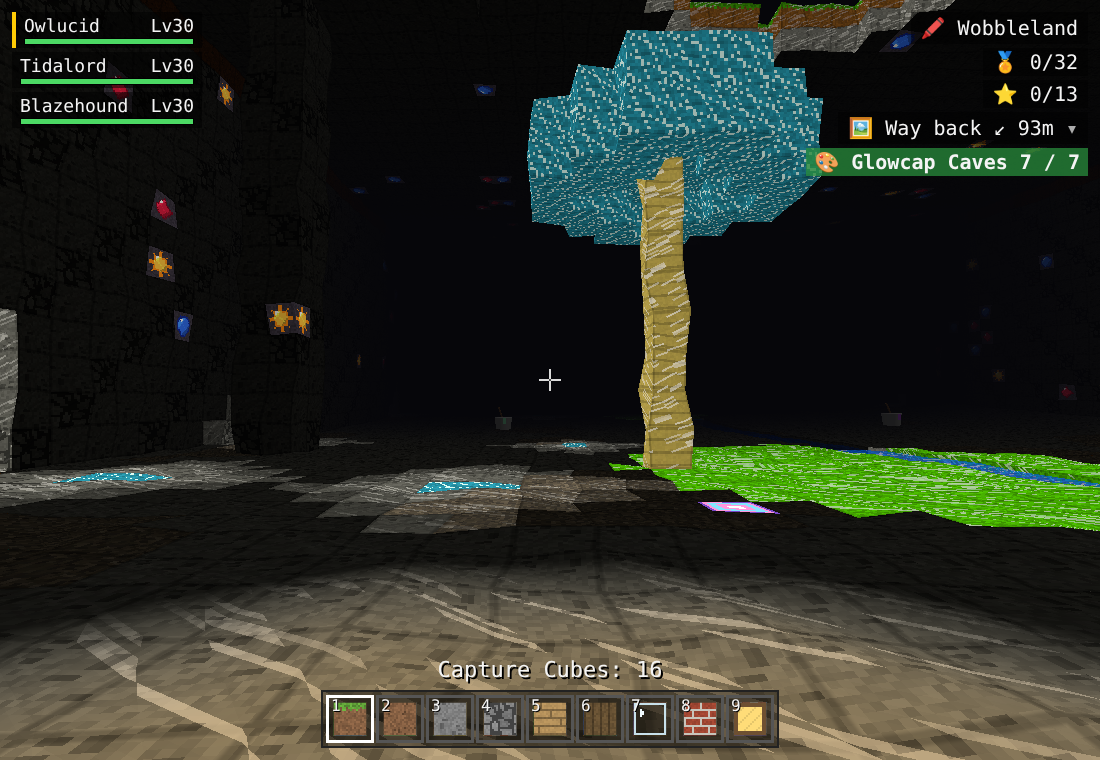
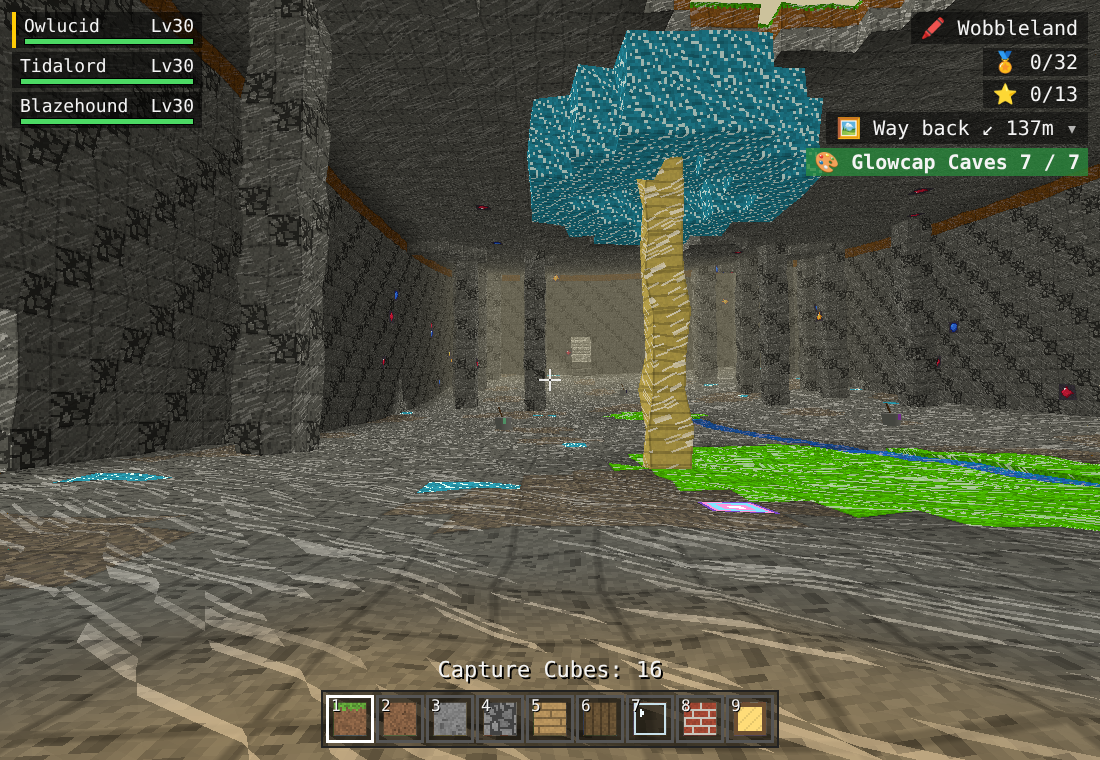
Glowcap Caves after the owner's look: fewer gems, Ghost and Ninja sense every warning in the dark, cleared parts have their own light
Claude-Session: https://claude.ai/code/session_01Xr3DsRns6bqDu4GhfcCfuU

diff --git a/src/wobbleland.js b/src/wobbleland.js
@@ -419,17 +419,18 @@ function caveLand(world, put) {
   const { x0, x1, z0, z1, floor, roof } = CAVE, top = roof + 1;
   const noise = (x, z) => Math.sin(x * 0.37 + z * 0.21) * Math.cos(z * 0.29 - x * 0.13) + 0.5 * Math.sin((x + 2 * z) * 0.17);
   const hash = (x, y, z) => { const h = Math.sin(x * 127.1 + y * 311.7 + z * 74.7) * 43758.5453; return h - Math.floor(h); };
-  // gems glow in the rock but light nothing (noLight): the cave stays dark, only the Glowcaps make pools of light
+  // gems glow in the rock but light nothing (noLight): the cave stays dark, only the Glowcaps make pools of light (owner 2026-11-12: a few, not
+  // too many: 0.6 % of the rock)
   const GEMS = [B.SAPPHIRE, B.RUBY, B.SUNSTONE], gem = (x, y, z) => GEMS[Math.floor(hash(z, x, y) * 3)];
-  const rock = (x, y, z) => (hash(x, y, z) < 0.03 ? gem(x, y, z) : (x + y + z) % 4 ? B.STONE : B.COBBLE);
+  const rock = (x, y, z) => (hash(x, y, z) < 0.006 ? gem(x, y, z) : (x + y + z) % 4 ? B.STONE : B.COBBLE);
   for (let x = x0; x <= x1; x++) for (let z = z0; z <= z1; z++) {
     const g = world.ground[x + z * world.W], n = noise(x, z);
     if (!interior(x, z)) { for (let y = 1; y < g; y++) put(x, y, z, y >= g - 2 ? B.DIRT : rock(x, y, z)); continue; } // the hill round the cave (its inner face: rock with crystals)
     if (skylightAt(x, z)) continue; // a shaft of sun from the sky down to the grass on the floor
     if (world.get(x, g, z) === B.GRASS) put(x, g, z, n > 0.6 ? B.GRAVEL : B.STONE); // the cave's floor
-    put(x, roof, z, hash(x, roof, z) < 0.02 ? gem(x, roof, z) : B.STONE); put(x, top, z, B.GRASS);   // the roof, the hill's top
+    put(x, roof, z, hash(x, roof, z) < 0.005 ? gem(x, roof, z) : B.STONE); put(x, top, z, B.GRASS);   // the roof, the hill's top
     if (n > 0.55) { put(x, top, z, B.DIRT); put(x, top + 1, z, B.GRASS); }                         // lumps on the top
-    if (n < -0.8 && !caveRingAt(x, z, 2)) put(x, roof - 1, z, hash(x, 1, z) < 0.3 ? gem(x, roof - 1, z) : B.STONE); // stalactites (never over a ring)
+    if (n < -0.8 && !caveRingAt(x, z, 2)) put(x, roof - 1, z, hash(x, 1, z) < 0.08 ? gem(x, roof - 1, z) : B.STONE); // stalactites (never over a ring)
   }
   // the tunnels: stairs down into the cave, four high, cut into the hill
   for (const t of CAVE.tunnels) {

diff --git a/src/wobblelook.js b/src/wobblelook.js
@@ -34,6 +34,7 @@ export const WOBBLE_LOOK = {
   // (`colours`; `plain` for a creature that does not glow); the fog closes in black while you are inside (`fog`: colour, near, far)
   light: 1.1, plain: 0xffe2b8, colours: { fire: 0xffa860, light: 0xfff0b0, electric: 0xbfe0ff, cosmic: 0xd4b0ff },
   fog: [0x06060a, 10, 46], fogEase: 0.8,
+  caveLit: 0.55,       // a cleared part of the cave has this much light of its own (owner 2026-11-12: "like how the regular caves were")
 };
 export const curlLift = d => (WOBBLE_LOOK.curl ? WOBBLE_LOOK.curlK * Math.max(0, d - WOBBLE_LOOK.curlFrom) ** 2 : 0);
 
@@ -102,6 +103,7 @@ export function createWobbleLook(game, { materials, scene, camera }) {
     const L = game.scribble?.light?.(), p = game.player?.pos;
     if (L) { U.uWobLight.value.set(L.x, L.z, L.r, WOBBLE_LOOK.light); U.uWobFlash.value.set(L.flash?.x ?? 0, L.flash?.z ?? 0, L.flash?.r ?? 0, L.flash ? L.flash.k : 0); }
     else { U.uWobLight.value.set(p?.x ?? 0, p?.z ?? 0, api.sight(), WOBBLE_LOOK.light); U.uWobFlash.value.w = 0; }
+    U.uWobCleared.value = WOBBLE_LOOK.caveLit;
     U.uWobWarm.value.setHex(WOBBLE_LOOK.colours[L ? L.type : api.lightType()] ?? WOBBLE_LOOK.plain);
   }
   const api = {
@@ -159,7 +161,8 @@ export function createWobbleLook(game, { materials, scene, camera }) {
       lifted = [];
       if (active) caveLight.uLantern.value = 0; // (in Wobbleland the light is your creature's: wobLan in caves.js, not main.js' lantern)
       if (active && under > 0.01 && scene.fog) { // Glowcap Caves: inside, the fog closes in, black (main.js sets it again every frame)
-        const [c, n, f] = WOBBLE_LOOK.fog, k = Math.min(1, under * 1.25);
+        const pp = game.player?.pos, lit = pp ? api.colourAt(pp.x, pp.z) : 0; // (in a cleared part the fog is lighter and further: you see across it)
+        const [c, n, f] = WOBBLE_LOOK.fog, k = Math.min(1, under * 1.25) * (1 - 0.6 * lit);
         scene.fog.color.lerp(FOG.setHex(c), k); scene.fog.near += (n - scene.fog.near) * k; scene.fog.far += (f - scene.fog.far) * k;
         if (scene.background?.isColor) scene.background.lerp(FOG, k);
       }

diff --git a/src/caves.js b/src/caves.js
@@ -636,6 +636,7 @@ export const wobbleLook = {
   // Glowcap Caves: the colour map's blue = inside the cave (no daylight there: world.skyDim); uWobLight = your creature's light (x, z,
   // radius, strength; 0 = off), uWobFlash = a big blast's flash (x, z, radius, strength), uWobWarm = the light's colour (its type's)
   uWobLight: { value: new THREE.Vector4(0, 0, 0, 0) }, uWobFlash: { value: new THREE.Vector4(0, 0, 0, 0) }, uWobWarm: { value: new THREE.Color(1, 1, 1) },
+  uWobCleared: { value: 0 }, // Glowcap Caves: how bright a cleared (coloured-in) part of the cave is (like a lit cave in the main world)
 };
 const WOBBLE_VERT_PARS = '#ifdef WOBBLE\nuniform float uCurl;\nuniform float uCurlFrom;\nuniform float uWobJig;\n#endif';
 // (after project_vertex; vCavePos is the world position) the curl: lifted by uCurl x (distance past uCurlFrom)^2, the same in every shader
@@ -665,6 +666,9 @@ uniform float uWobCrayon;
 uniform vec4 uWobLight;
 uniform vec4 uWobFlash;
 uniform vec3 uWobWarm;
+uniform float uWobCleared;
+// Glowcap Caves: a cleared part of the cave (coloured back in) has a soft light of its own, like the main world's lit caves
+float wobClear() { vec4 m = texture2D(uWobColour, vCavePos.xz / uWobSize); return m.b * m.r * uWobCleared; }
 // Glowcap Caves: how much of your creature's light (and a blast's flash) reaches this place inside the cave (0 outside it)
 float wobLan() {
   float m = texture2D(uWobColour, vCavePos.xz / uWobSize).b;
@@ -896,7 +900,7 @@ if (uTintOn > 0.5 && ((tileN >= uTintU.x && tileN < uTintU.y) || (tileN >= uTint
       .replace('#include <color_fragment>', `
         float lan = uLantern * clamp(1.0 - distance(vCavePos, uPlayer) / 8.0, 0.0, 1.0);
         #ifdef WOBBLE
-        float wobL = wobLan(); lan = max(lan, wobL); // (Glowcap Caves: your creature's light)
+        float wobL = wobLan(); lan = max(lan, max(wobL, wobClear())); // (Glowcap Caves: your creature's light, and a cleared part's own light)
         #endif
         diffuseColor.rgb *= max(vColor.r * uLit, max(vColor.g, vColor.b * lan));
         diffuseColor.rgb *= vTint;

diff --git a/src/groundrules.js b/src/groundrules.js
@@ -44,10 +44,14 @@ export class Ice extends GroundRule {
 // a circle `far` round them (twice `near`): you see the warnings in time. A glowing MONSTER is always seen (it lights itself), and so is
 // one you just hit (`hitLit` s) or one in a big blast's flash (`flash` s over the blast's ring). (plans/chapter3-world.md "Glowcap Caves")
 export const BRIGHT = ['fire', 'light', 'electric', 'cosmic'];
+// Owner 2026-11-12 ("more types with a cave advantage, like ghost and ninja"): creatures of the dark do not glow, they SENSE: every red
+// warning shows in full even out in the dark (the monster itself is still only two eyes). A different gift from the glowing types'.
+export const KEEN = ['ghost', 'ninja'];
 export class Dark extends GroundRule {
   constructor(o = {}) { super({ id: 'dark', near: 5, far: 10, late: 0.6, hitLit: 0.8, flash: 1.4, ...o }); }
   glows(type) { return BRIGHT.includes(type); }
   sight(type) { return this.glows(type) ? this.far : this.near; }
+  senses(type) { return KEEN.includes(type); }
 }
 
 export const GROUND = { ice: new Ice(), dark: new Dark() };

diff --git a/src/scribblefight.js b/src/scribblefight.js
@@ -661,8 +661,8 @@ export class ScribbleFight {
     if (this.flashLit && len2(f.x - this.flashLit.x, f.z - this.flashLit.z) < this.flashLit.r) return true;
     return len2(f.x - this.you.x, f.z - this.you.z) < r.sight(this.you.type) + f.r * 0.5;
   }
-  // is f's red warning shown: a monster in sight shows all of it, one in the dark only its last `late` seconds
-  seesTell(f) { if (!f.tell) return false; const r = this.dark(); return !r || this.sees(f) || f.tell.left <= r.late; }
+  // is f's red warning shown: a monster in sight shows all of it, one in the dark only its last `late` seconds (Ghost and Ninja: all of it)
+  seesTell(f) { if (!f.tell) return false; const r = this.dark(); return !r || this.sees(f) || f.tell.left <= r.late || r.senses(this.you.type); } // (Ghost and Ninja sense every warning)
 
   info() {
     return { dark: this.dark() ? { sight: this.sight(), seen: this.foes.map(f => this.sees(f)) } : null, over: this.over, won: this.won, clock: +this.clock.toFixed(2), lead: this.lead,

diff --git a/src/wobblelive.js b/src/wobblelive.js
@@ -235,7 +235,7 @@ class NightEyes extends Piece {
     for (const w of list) {
       const m = w.model, q = w.pos ?? m?.position;
       if (!m || !q || !p || this.game.scribble?.fighting) continue;
-      if (!inCave(Math.floor(q.x), Math.floor(q.z)) || Math.hypot(q.x - p.pos.x, q.z - p.pos.z) < r + 0.5) continue;
+      if (!inCave(Math.floor(q.x), Math.floor(q.z)) || Math.hypot(q.x - p.pos.x, q.z - p.pos.z) < r + 0.5 || (this.game.wobbleLook?.colourAt?.(q.x, q.z) ?? 0) > 0.5) continue; // (a cleared part of the cave has its own light)
       hide.add(m); m.visible = false;
       if (n < 62 && Math.sin(this.t * 2.1 + q.x) > -0.8) {
         const yaw = m.rotation.y, h = (m.userData.h ?? 1) * 0.7 + 0.4;

diff --git a/CLAUDE.md b/CLAUDE.md
@@ -199,13 +199,13 @@ world with `W/D/data/ground/index/inBounds/get`) are run in Node by their specs.
 | `src/studioprops.js` | Wave 19 stage B models: `drawPicture` / `pictureCanvas` (from `FLOORS`), the easel, pot rims, the brush, the rug |
 | `src/scribblefight.js` | Chapter 3 Test A / B (owner 2026-11-09), pure, Node-runnable: `ScribbleFight` = the arena's Live rules (`shapeOf`, `damage`, `intentFor`, `LIVE` imported unchanged from `src/arena/`) on the REAL ground: `groundOf(world)` (`stand`: a creature steps up one block, a step of two is a wall; `floor`; `wet`: swim slowly), shots fly straight in 3D and stop in the first solid block, a rush stops at a wall, a stomp reaches only about its own height, the ring (`FIGHT.R` 10) is the only fence; `FIGHT` (scribble monsters x8 HP, power 60, `attack` 0.7: tougher than the arena's x6 / 50 so mashing never wins with buffs that really work; `rush`: a rush landing in the last half of a monster's warning cancels its attack, knocks it back and carries you through, any other rush stops at the monster; `cool` overrides the arena's cool-downs, empty now; owner 2026-11-09 "shots have a huge advantage", measured in plans/chapter3.md), `squadOf(party)` (copies, never your real creatures), `spotAround` (monsters leap round your creature). Night run 2026-11-09 (`plans/chapter3.md` section 9): the monsters take your STRONGEST creature's level; `FIGHT.burst` (the big blast's ring grows 2 -> 5 while held, only a full one hits hard, it stops a monster in the last half of its warning; `blastR(k)`), `FIGHT.heal` (sits 0.8 s, a hit spoils it), `FIGHT.powerUp` (lost on a hit), `FIGHT.tough` (a brace: a hit in 0.7 s bounces off and stops its thrower); **Owner 2026-11-11 (night run, plans/chapter3-world.md "Decided overnight"): `KIND_NUMBERS` = every kind's numbers in one place (`wait`, `hit`, its own rules; `FIGHT.rush` / `burst` / `heal` / `powerUp` / `tough` are aliases), a rush hits x`hit` only when timed (`plain` otherwise), `liveShape(id)` (a speed-raising move = Speed up, a multi-hit move's power x `MULTI_HITS`), `SPEED` / `paceOf` (base speed -> x0.85..1.15 walking and dodging, monsters too), `foeHp` 10, step 5: `PATCH_SIZES` (smudge / tangle / knot: level step, HP, attack rhythm, patterns), `patternOf(species)`, `patchFight(patch, y)`, `swimOf` (Water creatures swim at full speed); opts `levelStep` / `hp` / `attack`; step 7: `GRUMBLE` (a knot's big one: turns slowly, full hits only on its back or right after it struck, `openT`; scribble.js draws its glowing back)**; `FIGHT.firstJitter` (2026-11-10: the monsters' first attacks start at a random 0-0.8 s extra; at fixed times a masher's rushes always came just before the timed rush's window and 20 fps frames tipped them in, so mashing won 3x as often at 20 fps); `FightCam` / `CAM` (the fight camera, pure: fov 50, 12.6 up / 8.2 back = about 57 degrees down (owner 2026-11-10: "a bit too steep"), never follows your look; turn `'frame'`: turns slowly (`turnRate`) only while a monster is near the screen's `edge`; tips up over hills, eased), `foesMiddle` (the living monsters it frames) and `onScreen` (the bots' projection). Owner 2026-11-10 ("5 buttons ... is A LOT", chose Attack + Special): `GROUP` (attack = shot / many shots / big blast / rush, special = heal / power up / Tough / clouds), `BUTTONS` (0 Dodge, 1 Attack, 2 Special), `push(b)` / `lift(b)`, `buttonsOf()` (owner 2026-11-10: button 1 attacks, button 2 help moves; no help move = close-up attacks (rush, big blast) on button 2, all one side = split in half: no empty button), `nextMove(button)` (the ready move of that button used longest ago, else the one ready soonest), `ICON` / `iconOf` (● ●●● ◎ ➜ ✚ ▲ 🛡 ☁ ☾), `pad()` = the three buttons **Slippy Lake: `groundOf(world).rule(x, z, y)` asks world.groundAt (`FIGHT.ground = false` = tests without the ice); `walk(f, tx, tz, dt)` moves every fighter by it (no rule = exactly as before), `carryOf` (a rush / dodge / charge skids on), a slipping monster's red line `overshoot`s** |
 | `src/scribble.js` | Chapter 3 Test A / B, **?preview only** (`PREVIEW`; without it this file does nothing): `scribbleSpot(world, sx, sz, yaw)` (pure: dry land 14-23 ahead of where you are when the game starts (owner 2026-11-09: tied to the world's start nobody near their home saw it), no gym box, nothing built within the ring; a toast says so), `createScribble(game)` -> `game.scribble`: the patch (an instanced pencil tangle + a ground decal); the monsters are their real models gone grey (`greyOut`) with pencil scribble wound round them (`buildWrap` / `drawWrap`; owner 2026-11-09: never drawn as doodles; STORY.md: caught creatures "go grey and grumpy"), beaten: the scribble bursts off, the colours come back, a hop, it runs off; stepping in snaps the tangle into a ring fence, a Capture Cube flies out and your lead creature hops out, the camera rises from your eyes to behind and above it in one move (`camK`, a blend of the eye pose and `thirdPerson` = scribblefight.js `FightCam`; the fov glides 75 -> 50 with it and back; your look is held while the camera is behind; enter / exit are closed forms of `phaseT`, `pinT` freezes a moment for screenshots); Test B (first person) was removed (owner 2026-11-10: "better with the pan out version"); three buttons with a fixed meaning (owner 2026-11-10): Jump = Dodge, the round action button = Attack, Place = Special, each showing its next move's KIND as a simple drawn icon (`KIND_SVG`, owner 2026-11-10: "WTH does attack mean") and word (Shot, Many shots, Blast · hold, Rush, Heal, Power up, Tough, Slow cloud, Sleepy cloud; the computer's card adds the move's name; `plans/chapter3/kind-icons.png`) (capture listeners on `btn-jump/act/place`; Ride and Down are hidden in a fight, `#touch.fight`), keys Space / Q (or a click) / E, hold Attack on ◎ to charge a big blast, 1 2 3 swap, a tap picks a monster; one ground ring round your creature (`aura`: the big blast's reach while held, heal, brace, power up); nothing saved, sent or a block; Wobbleland: every open patch not live is drawn from afar (`syncFar`: its boiling tangle and scribbled ground in a group at its middle, so the curl lifts it; `farInfo()`). main.js hooks marked "chapter 3" (`holdsPlayer`, `update`, `tap`); `where()` / `aim()`: the guide arrow (guide.js) leads to the patch until you cleared it once (`beaten`), and "Where to go" has a row `scribble` (destinations.js, dim while it is gone) |
-| `src/wobblelook.js` | Chapter 3 step 4: Wobbleland's look behind the `WOBBLE` material define (set only there, like `SKETCH`; caves.js `wobbleLook` uniforms, `WOBBLE_VERT` / `WOBBLE_FRAG`): `WOBBLE_LOOK` (**`curl`** = the one on/off switch of the curling page, `curlFrom` / `curlK`; first-draft `draft` / `sat` / `line`; `cleared` / `flood`; C1 `jig` = every block corner moved by a hash of its place (caves.js `uWobJig`, no cracks, vCavePos stays real); C2 `crayon` = wax-crayon streaks with paper gaps on coloured-in land (caves.js `uWobCrayon`, in the shader, no second atlas); C3 `sky`), `curlLift(d)`, `createWobbleLook` -> `game.wobbleLook` (`reset`, `update`, `flood(id)`, `beforeRender` / `afterRender` lift far models, `toggleCurl`, the pause screen's `#curl-btn`, `colourAt`, `info`); the main world is byte for byte the same (spec `wobble` part `look`); **Glowcap Caves' light**: the colour map's blue = inside the cave (`shadeMap`); caves.js `wobLan()` adds your creature's light to the baked light there (`uWobLight` = round your creature in a fight (scribble.js `light()`), else round you, radius `sight()` = your ride's / first creature's `Dark.sight`; `uWobFlash` = a full blast's flash), in its type's colour (`uWobWarm`, `WOBBLE_LOOK.colours` / `plain`); main.js' lantern is off in Wobbleland; the Scribble's grey no longer lifts black; `WOBBLE_LOOK.fog` (black fog, the sunny sky hidden inside, in `beforeRender`) |
+| `src/wobblelook.js` | Chapter 3 step 4: Wobbleland's look behind the `WOBBLE` material define (set only there, like `SKETCH`; caves.js `wobbleLook` uniforms, `WOBBLE_VERT` / `WOBBLE_FRAG`): `WOBBLE_LOOK` (**`curl`** = the one on/off switch of the curling page, `curlFrom` / `curlK`; first-draft `draft` / `sat` / `line`; `cleared` / `flood`; C1 `jig` = every block corner moved by a hash of its place (caves.js `uWobJig`, no cracks, vCavePos stays real); C2 `crayon` = wax-crayon streaks with paper gaps on coloured-in land (caves.js `uWobCrayon`, in the shader, no second atlas); C3 `sky`), `curlLift(d)`, `createWobbleLook` -> `game.wobbleLook` (`reset`, `update`, `flood(id)`, `beforeRender` / `afterRender` lift far models, `toggleCurl`, the pause screen's `#curl-btn`, `colourAt`, `info`); the main world is byte for byte the same (spec `wobble` part `look`); **Glowcap Caves' light**: the colour map's blue = inside the cave (`shadeMap`); caves.js `wobLan()` adds your creature's light to the baked light there (`uWobLight` = round your creature in a fight (scribble.js `light()`), else round you, radius `sight()` = your ride's / first creature's `Dark.sight`; `uWobFlash` = a full blast's flash), in its type's colour (`uWobWarm`, `WOBBLE_LOOK.colours` / `plain`); main.js' lantern is off in Wobbleland; owner 2026-11-12: a cleared part of the cave has its own light (`wobClear`, `uWobCleared` = `WOBBLE_LOOK.caveLit`) and lighter fog; the Scribble's grey no longer lifts black; `WOBBLE_LOOK.fog` (black fog, the sunny sky hidden inside, in `beforeRender`) |
 | `src/wobblelive.js` | Chapter 3 (?preview) `WobbleLive` = `LIVE.wobble` (world.parts from wobbleland.js), owner 2026-11-11 "object-oriented": it only composes small `Piece` classes (`PIECES`: `Puffs`, `PaintPots`, `Bugs`, `Springs`, `RiverMarks`, `HillStrings`; each may have `update(dt, p)`, `keysChanged`, `near` / `use`, `info`, `dispose`; a new thing = one class + one entry): A2 the scribble bugs (scribblebugs.js), C5 the springs' crayon coils (squash under you), A3 paint-pot hops (`POT`, pure `potsOf(beaten)` = the Camp's pot + one per cleared patch, `hopOf(pots, pos, yaw)` = the pot you stand in and the one nearest the way you look; a beam of its colour over it, the button word "Hop to blue!"), `info()`; nothing saved or sent; Slippy Lake: `Skids` (your skid marks on the ice, skidmarks.js), bugs and pot colours of the lake's patches once it opens; Glowcap Caves: `NightEyes` (a wild creature in the dark beyond your light shows only its eyes), `Fireflies` (glow-worms) |
 | `src/scribblebugs.js` | Chapter 3 A2 (?preview), pure, 1/120 s sub-steps: scribble bugs (`BUG`, `bugsFor(patch)`, `yardStep`, `BugField`): four round each patch not cleared; a bug runs from you always a bit faster than you move (`faster`), lives in a yard round its patch (`inner`..`outer`) and on its edge only slides along it, so you corner it; `tests/wobblebugbots.mjs` (naive sprinter vs a cornering bot, 60 / 20 fps); drawn by wobblelive.js (instanced, a pop = a puff + `wobbleLook.splat`) |
-| `src/groundrules.js` | Chapter 3 Slippy Lake (?preview), pure, no imports: **the ground's own rule, one object per ground** (owner 2026-11-11: "build it once as a ground rule object the player physics and the scribble fight both ask"): `GroundRule` (`grips(type)`, `move(v, tx, tz, dt, grip)`, `carry(kind, type)`, `overshoot(type)`, `stopDist`), `Ice` (owner 2026-11-11 "more slippery": letting go eases at `k` 1.1 = a walk glides about 4 blocks, getting going / turning at `go` 0.7; Ice creatures and Ice monsters keep their grip; a rush / dodge skids on `rush` 4 / `dodge` 3; a slipping monster's charge goes `past` 2 further and skids on; owner 2026-11-11: monsters keep their own way of fighting, only the ones that charge by nature skate at you), **`Dark`** (Glowcap Caves: `sight(type)` = how far a creature's light reaches, `near` 5, `far` 10 for the glowing types `BRIGHT` Fire / Light / Electric / Cosmic; `late` 0.6 = how long before its hit an unseen monster's warning shows; `hitLit` 0.8, `flash` 1.4; it moves nothing, only what you SEE: `ScribbleFight.dark()` / `sight()` / `sees(f)` / `seesTell(f)`, the bots react only to seen warnings), `GROUND`. A world answers `world.groundAt(pos)` (Wobbleland: `iceUnder` ?? `darkIn`); Bumpy Hills = one more subclass |
+| `src/groundrules.js` | Chapter 3 Slippy Lake (?preview), pure, no imports: **the ground's own rule, one object per ground** (owner 2026-11-11: "build it once as a ground rule object the player physics and the scribble fight both ask"): `GroundRule` (`grips(type)`, `move(v, tx, tz, dt, grip)`, `carry(kind, type)`, `overshoot(type)`, `stopDist`), `Ice` (owner 2026-11-11 "more slippery": letting go eases at `k` 1.1 = a walk glides about 4 blocks, getting going / turning at `go` 0.7; Ice creatures and Ice monsters keep their grip; a rush / dodge skids on `rush` 4 / `dodge` 3; a slipping monster's charge goes `past` 2 further and skids on; owner 2026-11-11: monsters keep their own way of fighting, only the ones that charge by nature skate at you), **`Dark`** (Glowcap Caves: `sight(type)` = how far a creature's light reaches, `near` 5, `far` 10 for the glowing types `BRIGHT` Fire / Light / Electric / Cosmic; `late` 0.6 = how long before its hit an unseen monster's warning shows; owner 2026-11-12: `KEEN` Ghost / Ninja `senses(type)` = every warning shows in full (no bigger light); `hitLit` 0.8, `flash` 1.4; it moves nothing, only what you SEE: `ScribbleFight.dark()` / `sight()` / `sees(f)` / `seesTell(f)`, the bots react only to seen warnings), `GROUND`. A world answers `world.groundAt(pos)` (Wobbleland: `iceUnder` ?? `darkIn`); Bumpy Hills = one more subclass |
 | `src/skidmarks.js` | Slippy Lake: `SkidMarks` (one instanced mesh of fading scratches, `track(who, x, y, z, vx, vz, dt)`), used by wobblelive.js `Skids` (you) and scribble.js (every fighter that slides; an Ice one never) |
 | `src/wobblesky.js` | Chapter 3 C3 (?preview): `createWobbleSky(scene)` = a child's sky in Wobbleland only (`SKY`: a crayon-streaked dome that follows the camera, a smiling sun with rays, cotton clouds on strings; 4 draw calls, `noCurl`, `fog: false`); made / thrown away by wobblelook.js `reset` (`WOBBLE_LOOK.sky`) |
-| `src/wobbleland.js` | Chapter 3 (plans/chapter3-world.md, ?preview only): **Wobbleland**, the Wizard's very first drawing, as terrain data (Node-runnable, `TERRAINS.wobbleLand`, 224 x 224, the same for every seed): `CAMP` (Inkpot Camp, healer, the way back on steps), `PATCHES` (append-only ids, `patchKey(id)` = `pw:wobble:patch<id>`, `openPatches(beaten)` (the knot only once its region's others are clear), `FREED_SPAWNS` (wildafter `wobble:<id>`), `meadowState`, `wizardLine`, sizes smudge / tangle / knot, `wet` = the water twist), owner 2026-11-11 (A1): a packed `MEADOW` box round the Camp (patch centres 26-28 apart, the arrow shows smudges first) and the next `REGIONS` right beside it (`regionAt`: Bumpy Hills north, Slippy Lake `LAKE` west, Glowcap Caves `CAVE` east); B: riding and flying everywhere (the page's keep has `rideIn`; riding into a patch hops you off as its fight starts, scribble.js), `heightAt` (bulgy hills, flat rings), puddles, the right-angle river, wonky trees / flower / cloud / small house / stairs to nowhere / mushroom; C4 / C5: `FLOATERS` (five hills on strings with a chest, a Bounce Block spring beside four: walking, jumping and flying never get you up), the floating river `RIVER_UP` / `riverY` / `riverFlow` (= `world.flowAt`, read by player.js `walkStep`: a current carries you uphill to the fifth hill, no button), `UPSIDE_TREES`, `CRAYONS`; freed creatures appear near their own patch and on the hills (`FREED_SPAWNS` with spawnrules.js `near:<arg>` -> `world.spawnSpot` = `wobbleSpot`); `world.wobble`; `wobbleAim`; `paperDoor(world)` = the Paper Door's cells in the tower's south wall on the Wizard's island + where you come back (portal.js draws it, CLOTH under a grey-cream `DoorGlow`, only for `game.studio.ally` with `PREVIEW`); realm `REALMS.wobble` (registered only with ?preview, `entrance: 'paper'`); `tests/wobblecheck.mjs` (reach, rings, the wall), spec `wobble`; **Owner 2026-11-11: no walls, every region open from the start** (a region still being drawn says so); **Slippy Lake** (plans/chapter3-world.md "Slippy Lake", section 8): west of the meadow (`LAKE.box` x 0..59, z `LAKE_Z0` 72..223, as big as the meadow): a frozen lake of two `LAKE.lobes` (`lakeShape` <= 1: ICE over water at `LAKE.y`), not only ice: snow drifts (`LAKE.drift`, `driftAt`: grip spots), `LOGS` frozen in, `ROCKS` poking through (never in a ring), `PINES` and gravel on the shore, snowy islands and a rock island (`LAKE.isles`), stepped snow hills (`LAKE.hills`) with `CHUTES` (ice down a hill, `lakeFlow` pushes you along: you shoot onto the lake) into `LEADS` (open water with a current to the east island, a last push climbs you out); patches 7-10, 12, 13 (tangles, `step` 2) and the knot 11 at the north end (Blizzbear, an Ice Grumble), one Ice monster and one charger (a Racer skater, Fizzbomb, a Pirate) each, `holes` = open water in a ring (`wet`); a floating hill with its spring on the ice; `REGIONS` (`soon`) / `regionState` / `freedSpawns(region)`; `world.groundAt` = `iceUnder` ?? `darkOver`, `world.flowAt` = river + `lakeFlow` + `woodFlow`; `wobbleSpot('isle')`; `tests/wobblenode.mjs` (the real Player and fight on the ice); **Glowcap Caves** (plans/chapter3-world.md "Glowcap Caves"; owner 2026-11-11: "properly dark" like the arena's cave and "use the world's vertical side"): east of the meadow (`CAVE` x 164..223, z `CAVE_Z0` 72..223) the land is one big hill (`caveHeight`: one block up per block to its top at y 20, free for a later region); the cave is DOWN inside it (floor `CAVE.floor` 2, roof `CAVE.roof` 19: 16 blocks of headroom for the fight's camera; WORLD_H 48 and the page's ground at 10 are why it is in a hill); three stair `CAVE.tunnels` (two from the meadow, one from Bumpy Hills; `inTunnel`, `caveMouth`: `wobbleAim` leads to a tunnel's top, down its stairs and on, "🕳 Way up" back); `inCave(x, z)` = the dark (`darkIn(p)` -> groundrules.js `GROUND.dark`; `world.skyDim` = no daylight inside, so the baked light is black); stone `CAVE_PILLARS` with gems (Sapphire / Ruby / Sunstone: glow, light nothing), stalactites, four `SKYLIGHTS` (holes in the hill, sun on grass; `wobbleSpot('skylight')`), `BIG_SHROOMS`, Glowcaps set into the floor, the `CAVE_RIVER` (`caveFlow`); patches 14-19 (tangles, `step` 2, one glowing monster each) and the knot 20 (Duskmare, a Ghost Grumble) |
+| `src/wobbleland.js` | Chapter 3 (plans/chapter3-world.md, ?preview only): **Wobbleland**, the Wizard's very first drawing, as terrain data (Node-runnable, `TERRAINS.wobbleLand`, 224 x 224, the same for every seed): `CAMP` (Inkpot Camp, healer, the way back on steps), `PATCHES` (append-only ids, `patchKey(id)` = `pw:wobble:patch<id>`, `openPatches(beaten)` (the knot only once its region's others are clear), `FREED_SPAWNS` (wildafter `wobble:<id>`), `meadowState`, `wizardLine`, sizes smudge / tangle / knot, `wet` = the water twist), owner 2026-11-11 (A1): a packed `MEADOW` box round the Camp (patch centres 26-28 apart, the arrow shows smudges first) and the next `REGIONS` right beside it (`regionAt`: Bumpy Hills north, Slippy Lake `LAKE` west, Glowcap Caves `CAVE` east); B: riding and flying everywhere (the page's keep has `rideIn`; riding into a patch hops you off as its fight starts, scribble.js), `heightAt` (bulgy hills, flat rings), puddles, the right-angle river, wonky trees / flower / cloud / small house / stairs to nowhere / mushroom; C4 / C5: `FLOATERS` (five hills on strings with a chest, a Bounce Block spring beside four: walking, jumping and flying never get you up), the floating river `RIVER_UP` / `riverY` / `riverFlow` (= `world.flowAt`, read by player.js `walkStep`: a current carries you uphill to the fifth hill, no button), `UPSIDE_TREES`, `CRAYONS`; freed creatures appear near their own patch and on the hills (`FREED_SPAWNS` with spawnrules.js `near:<arg>` -> `world.spawnSpot` = `wobbleSpot`); `world.wobble`; `wobbleAim`; `paperDoor(world)` = the Paper Door's cells in the tower's south wall on the Wizard's island + where you come back (portal.js draws it, CLOTH under a grey-cream `DoorGlow`, only for `game.studio.ally` with `PREVIEW`); realm `REALMS.wobble` (registered only with ?preview, `entrance: 'paper'`); `tests/wobblecheck.mjs` (reach, rings, the wall), spec `wobble`; **Owner 2026-11-11: no walls, every region open from the start** (a region still being drawn says so); **Slippy Lake** (plans/chapter3-world.md "Slippy Lake", section 8): west of the meadow (`LAKE.box` x 0..59, z `LAKE_Z0` 72..223, as big as the meadow): a frozen lake of two `LAKE.lobes` (`lakeShape` <= 1: ICE over water at `LAKE.y`), not only ice: snow drifts (`LAKE.drift`, `driftAt`: grip spots), `LOGS` frozen in, `ROCKS` poking through (never in a ring), `PINES` and gravel on the shore, snowy islands and a rock island (`LAKE.isles`), stepped snow hills (`LAKE.hills`) with `CHUTES` (ice down a hill, `lakeFlow` pushes you along: you shoot onto the lake) into `LEADS` (open water with a current to the east island, a last push climbs you out); patches 7-10, 12, 13 (tangles, `step` 2) and the knot 11 at the north end (Blizzbear, an Ice Grumble), one Ice monster and one charger (a Racer skater, Fizzbomb, a Pirate) each, `holes` = open water in a ring (`wet`); a floating hill with its spring on the ice; `REGIONS` (`soon`) / `regionState` / `freedSpawns(region)`; `world.groundAt` = `iceUnder` ?? `darkOver`, `world.flowAt` = river + `lakeFlow` + `woodFlow`; `wobbleSpot('isle')`; `tests/wobblenode.mjs` (the real Player and fight on the ice); **Glowcap Caves** (plans/chapter3-world.md "Glowcap Caves"; owner 2026-11-11: "properly dark" like the arena's cave and "use the world's vertical side"): east of the meadow (`CAVE` x 164..223, z `CAVE_Z0` 72..223) the land is one big hill (`caveHeight`: one block up per block to its top at y 20, free for a later region); the cave is DOWN inside it (floor `CAVE.floor` 2, roof `CAVE.roof` 19: 16 blocks of headroom for the fight's camera; WORLD_H 48 and the page's ground at 10 are why it is in a hill); three stair `CAVE.tunnels` (two from the meadow, one from Bumpy Hills; `inTunnel`, `caveMouth`: `wobbleAim` leads to a tunnel's top, down its stairs and on, "🕳 Way up" back); `inCave(x, z)` = the dark (`darkIn(p)` -> groundrules.js `GROUND.dark`; `world.skyDim` = no daylight inside, so the baked light is black); stone `CAVE_PILLARS` with a few gems (Sapphire / Ruby / Sunstone: glow, light nothing; owner 2026-11-12: 0.6 % of the rock), stalactites, four `SKYLIGHTS` (holes in the hill, sun on grass; `wobbleSpot('skylight')`), `BIG_SHROOMS`, Glowcaps set into the floor, the `CAVE_RIVER` (`caveFlow`); patches 14-19 (tangles, `step` 2, one glowing monster each) and the knot 20 (Duskmare, a Ghost Grumble) |
 | `arena.html`, `src/arena/` | Chapter 3 test arena (owner 2026-11-09, a separate page, never part of the game, reads the save only): `core.js` (`shapeOf` = a battle move's arena shape from its data, `damage` = battle.js's sum, `intentFor` / `inIntent` = red warnings, `PLACES` meadow / cave / ice, `SEE`, `Fighter`, `Fx`), `live.js` (live action; ice slides, Ice creatures keep their grip), `turns.js` (`TimingMode` ⏱: needle / beats / charge and blocking; owner 2026-11-09: Draw and Flick had "no real aim", Aim was "very basic": all three removed), `main.js` (the five fixed buttons = Dodge + four moves, keys Q E R F + Space, 1 2 3 = swap, stick, the squad of three to swap in Live, the cave's light and eyes, `window.arena`); `tests/arenabots.mjs` = naive vs skilled bots for every mode and place |
 
 ## Key ideas
@@ -878,7 +878,7 @@ Specs (`tests/specs/`; each file's header comment says more). "Two browsers" = `
 - `two-types`: T21 Cozy and Treasure (chart incl. the unchanged old 26 x 26), `home:<type>` with fake homes; `T21_TYPE=cozy|treasure`
 - `water`: T12 climbing out of water
 - `wizard`: wave 19 the Custom type (data, chart, paint, old) and the Wizard's Tower (canvas / land / bridge / painting / tower / ipad / closed / pair / shots) and stage C (battle: gate words, his team, a lost battle, a real win; kit: every part / colour builds and stands on y 0, Zenithar from parts, names, the rainbow shimmer; design: the part-kit board, taps, a name, Not now keeps the drawing, your named guardian, celebrate; ally: reload, redraw, rematch +5, a new look after a rematch win, the Swirl island, old saves; attacks: the board's ?preview Attacks tab, the move kinds); `WIZARD_ONLY=data|chart|paint|travel|old|kit|canvas|land|bridge|painting|tower|ipad|closed|pair|battle|design|ally|attacks|shots`
-- `wobble`: chapter 3's Wobbleland (?preview): ice (`wobblenode.mjs`: Slippy Lake with the real Player and fight), lake / lakeipad (the lake with real keys and the iPad: open from the start, meter, arrow, rows, far patches drawn, a glide with skid marks, a chute ride, a fight on the ice, a win, reload, freed creatures, the lake's knot, screenshots `wobble-lake-*.png`), lakebots (`wobblebots.mjs` `runLake`: every lake patch with the Ice, the neutral and the owner's team), land (`wobblecheck.mjs`: every region walkable from the Camp, the lake about the meadow's size, rings mostly ice with no rock or log, chutes, leads), door (the Paper Door only for the Wizard's Ally and only with ?preview, arrive at the Camp, reload inside, real keys back up), look (on there, the flood, the main world byte for byte the same after a trip, draw calls), patches (`wobblebots.mjs` on all six patches: mashing with a type-neutral team under a quarter, skilled all; walking in, a win saved, +3 cubes, the next patch, a reload); loop (meter, rows, arrow, Wizard, freed creatures), ipad, knot (the Grumble's rule, the meadow floods, reload), ride (R, riding / flying, hop off into a fight, flying on over the lake), hops (A3 paint-pot hops with E and the iPad's button), bugs (A2: the bug bots, real keys and the joystick corner one), springs (C4 / C5: a floating hill only by its spring, real keys, its chest), river (no keys: the floating river carries you up; freed creatures' spots); cave / caveipad (Glowcap Caves with real keys and the iPad: down a tunnel it is dark round you, a glowing creature's light twice as far, the river with no keys, a fight in the dark (eyes, late warnings, glowing monsters, hit and flash light), a win, freed creatures in the skylights, reload, the knot Duskmare; `wobble-cave*.png`), cavebots (`wobblebots.mjs` `runCave`: glowing / neutral / owner's team); `WOBBLE_ONLY=land|ride|hops|bugs|springs|river|door|look|patches|loop|ipad|knot|ice|lake|lakeipad|lakebots|cave|caveipad|cavebots`
+- `wobble`: chapter 3's Wobbleland (?preview): ice (`wobblenode.mjs`: Slippy Lake with the real Player and fight), lake / lakeipad (the lake with real keys and the iPad: open from the start, meter, arrow, rows, far patches drawn, a glide with skid marks, a chute ride, a fight on the ice, a win, reload, freed creatures, the lake's knot, screenshots `wobble-lake-*.png`), lakebots (`wobblebots.mjs` `runLake`: every lake patch with the Ice, the neutral and the owner's team), land (`wobblecheck.mjs`: every region walkable from the Camp, the lake about the meadow's size, rings mostly ice with no rock or log, chutes, leads), door (the Paper Door only for the Wizard's Ally and only with ?preview, arrive at the Camp, reload inside, real keys back up), look (on there, the flood, the main world byte for byte the same after a trip, draw calls), patches (`wobblebots.mjs` on all six patches: mashing with a type-neutral team under a quarter, skilled all; walking in, a win saved, +3 cubes, the next patch, a reload); loop (meter, rows, arrow, Wizard, freed creatures), ipad, knot (the Grumble's rule, the meadow floods, reload), ride (R, riding / flying, hop off into a fight, flying on over the lake), hops (A3 paint-pot hops with E and the iPad's button), bugs (A2: the bug bots, real keys and the joystick corner one), springs (C4 / C5: a floating hill only by its spring, real keys, its chest), river (no keys: the floating river carries you up; freed creatures' spots); cave / caveipad (Glowcap Caves with real keys and the iPad: down a tunnel it is dark round you, a glowing creature's light twice as far, the river with no keys, a fight in the dark (eyes, late warnings, glowing monsters, hit and flash light), a win, freed creatures in the skylights, reload, the knot Duskmare; `wobble-cave*.png`), cavebots (`wobblebots.mjs` `runCave`: glowing / Ghost-Ninja (`keen`) / neutral / owner's team); `WOBBLE_ONLY=land|ride|hops|bugs|springs|river|door|look|patches|loop|ipad|knot|ice|lake|lakeipad|lakebots|cave|caveipad|cavebots`
 - `weather`: each kind forced, particles, spawn mix, visitors get the host's weather
 
 Other test tools: `tests/scribblemeasure.mjs` (the scribble fight's measurements: `cam`, `kinds`, `length`; plans/chapter3.md section 9), `tests/perf.mjs` (load, memory, draw calls, fps; `--swirl`, `--dream`), the

diff --git a/plans/chapter3-world.md b/plans/chapter3-world.md
@@ -903,6 +903,22 @@ and with the dark turned off.
 4. **The hill's top** is flat land waiting for a region (Bumpy Hills could move up there, or a new one). What should live up there?
 5. A glowing team mashes four tangles (as the Ice team mashes the lake's). Fine for the right team, or should mashing lose with every team?
 
+### 8. The owner's answers (2026-11-12) and what changed
+
+**The owner:** "yeah it's dark enough. too many special treasure blocks though. there can be some, but this is too many. I like the coloured
+light per type. I also like the idea of more types with a cave advantage, like ghost and ninja. one thing -- cleared scribble areas could be
+a bit brighter like how the regular caves were."
+
+- **Fewer gems:** 0.6 % of the rock (was 3 %), 0.5 % of the roof, 8 % of the stalactites (`rock` / `gem` in `caveLand`).
+- **Ghost and Ninja sense the dark** (`KEEN` / `Dark.senses(type)` in `src/groundrules.js`, `seesTell` in `src/scribblefight.js`): they do
+  not glow, but every red warning shows in full even out in the dark (the monster itself is still only its eyes). A different gift from the
+  glowing types' bigger light. Bots (`runCave` team `keen`: Lanterboo, Flickit, Wispurr, base stats a little under Owlucid's): the person bot
+  loses 0-38 % of its HP a minute (neutral 24-189 %) and wins the knot 4 / 4 (neutral 0 / 4); skilled wins every fight; their mashing wins most
+  tangles (8 / 8, 6 / 8, 3 / 8 ...), like the glowing team's and yours (the cave's Ghost monsters take Ghost moves x2).
+- **Cleared parts of the cave have their own light** (`wobClear` in `src/caves.js`, `WOBBLE_LOOK.caveLit` 0.55: a cleared patch's colour
+  circle, and the whole cave after its knot, is lit like the main world's lit caves; the fog there is lighter so you see across it; wild
+  creatures there are seen, not just eyes). The fight's rule is unchanged (the patches still to fight are dark). Picture `wobble-cave-bright.png`.
+
 ## 0. The owner's decisions (2026-11-11)
 
 | Question | Decision |
